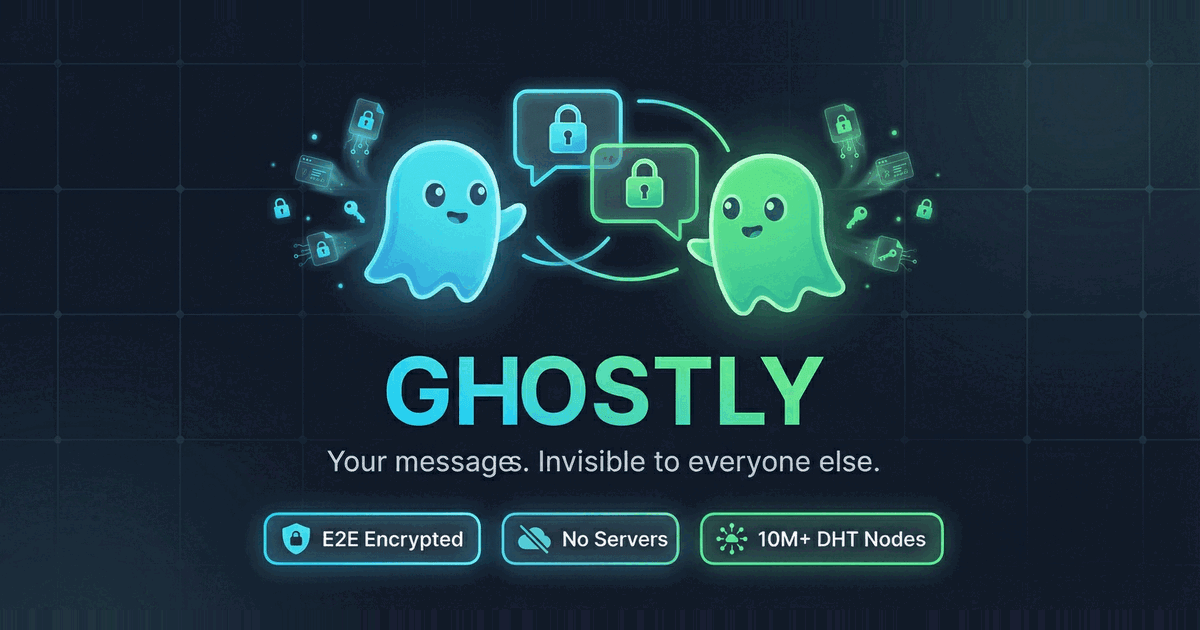
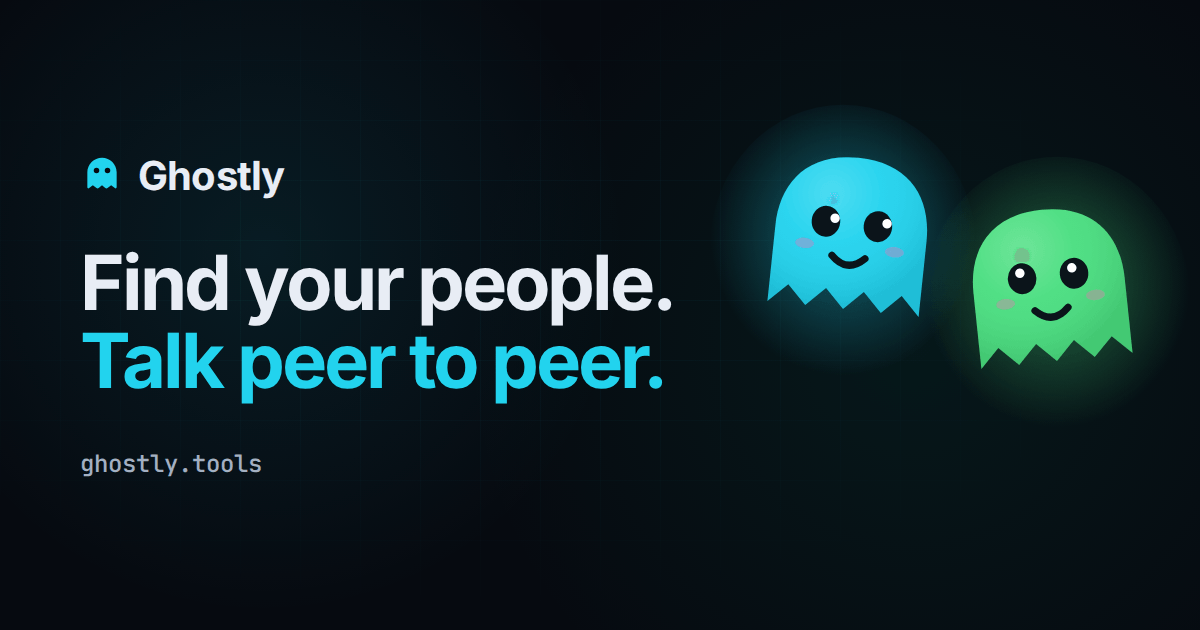
feat(site): a new share image with Boo, Casper and today's headline
website/public/og-image.png is now drawn by scripts/og-image.mjs (npm run og-image):
the ghosts' outline, colours and eye ink, the palette and the home page's headline
are read from the site's own sources, rendered by Playwright at 1200x630 and reduced
to a 256-colour palette with sharp (127 KB, was 183 KB). The old card said
"Invisible to everyone else" and "10M+ DHT Nodes". The launch checklist now also
checks the share image stays under 300 KB.

diff --git a/website/e2e/launch-checklist.spec.ts b/website/e2e/launch-checklist.spec.ts
@@ -2,7 +2,7 @@ import { expect, test } from "@playwright/test";
 
 /**
  * What a crawler or a share sees: robots.txt and the sitemap are valid, and every page in the sitemap answers with
- * its own title, description and share card (a 1200x630 image at an absolute address). A missing page has a title of
+ * its own title, description and share card (a 1200x630 image under 300 KB at an absolute address). A missing page has a title of
  * its own, no picture on the home page lacks alt text, and no page calls another site or sets a cookie (the site has
  * no analytics, so it needs no cookie banner).
  */
@@ -105,12 +105,14 @@ test("every page in the sitemap has its own title, description and share card", 
   }
 });
 
-test("the share image is 1200x630", async ({ request, page }) => {
+test("the share image is 1200x630 and under 300 KB", async ({ request, page }) => {
   const h = head(await (await request.get("/")).text());
   const local = new URL(h.ogImage!).pathname;
   const res = await request.get(local);
   expect(res.status()).toBe(200);
   expect(res.headers()["content-type"]).toMatch(/^image\//);
+  // Some apps drop a share picture over their limit (WhatsApp's is about 300 KB); scripts/og-image.mjs keeps it small.
+  expect((await res.body()).length).toBeLessThan(300 * 1024);
   await page.goto("/");
   const size = await page.evaluate(async (src) => {
     const img = new Image();
